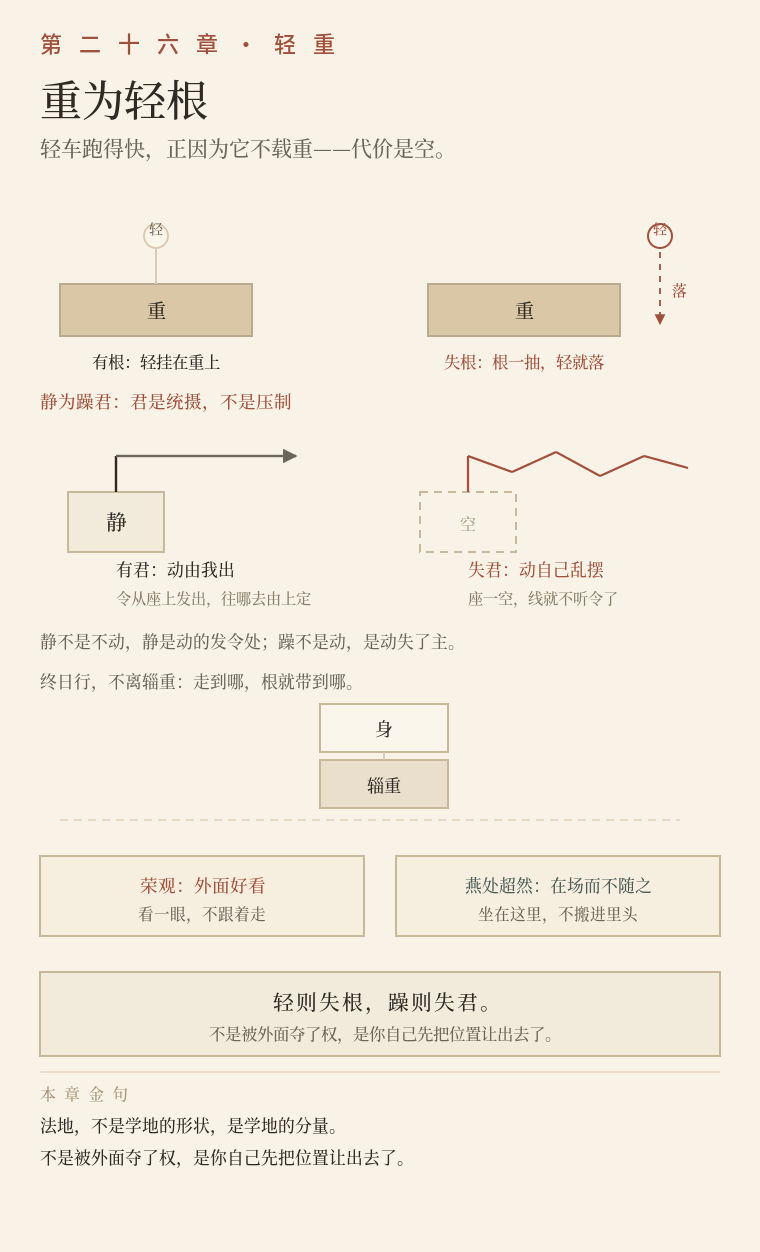
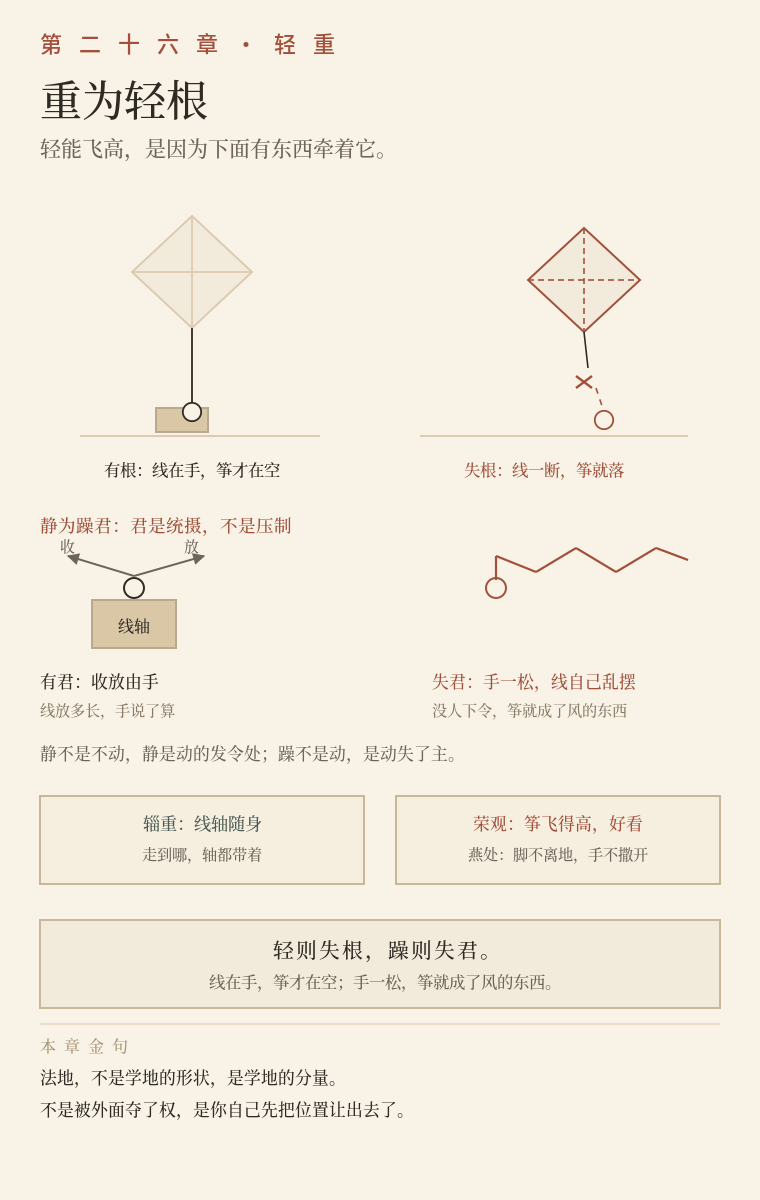
2.6.0 二十六章改用风筝模型：线在手，筝才在空；两处皆作一正一反两态

diff --git a/tools/make_yili_svg.py b/tools/make_yili_svg.py
@@ -1634,69 +1634,72 @@ def ch24_qi_zhe_bu_li():
 
 
 # ============ 第二十六章 · 重为轻根 ============
+# ============ 第二十六章 · 重为轻根 ============
 def ch26_zhong_wei_qing_gen():
-    W, H = 380, 626
-    body, y = head(W, H, "法地不是学地的形状，是学地的分量", "第 二 十 六 章 · 轻 重", "重为轻根",
-                   "轻车跑得快，正因为它不载重——代价是空。", H)
+    W, H = 380, 600
+    body, y = head(W, H, "线在手，筝才在空", "第 二 十 六 章 · 轻 重", "重为轻根",
+                   "轻能飞高，是因为下面有东西牵着它。", H)
     s = [body]
-    # 重为轻根：有根／失根 两态
-    y0 = y + 8
-    # 有根
-    s.append(box(30, y0 + 34, 96, 26, fill="#D9C7A6", stroke="#B9A98F"))
-    s.append(txt(78, y0 + 51, "重", 9.6, INK, "middle"))
-    s.append(f'<line x1="78" y1="{y0+34}" x2="78" y2="{y0+16}" stroke="{LINE}" stroke-width="1"/>')
-    s.append(f'<circle cx="78" cy="{y0+10}" r="6" fill="#FBF6EC" stroke="{LINE}" stroke-width="1"/>')
-    s.append(txt(78, y0 + 9, "轻", 7, "#6E6459", "middle"))
-    s.append(txt(78, y0 + 76, "有根：轻挂在重上", 8.2, INK, "middle"))
-    # 失根
-    s.append(box(214, y0 + 34, 96, 26, fill="#D9C7A6", stroke="#B9A98F"))
-    s.append(txt(262, y0 + 51, "重", 9.6, INK, "middle"))
-    s.append(f'<circle cx="330" cy="{y0+10}" r="6" fill="#FBF6EC" stroke="{SEAL}" stroke-width="1"/>')
-    s.append(txt(330, y0 + 9, "轻", 7, SEAL, "middle"))
-    s.append(arrow(330, y0 + 18, 330, y0 + 54, color="#A2503B", width=0.9, dash="3 3", head="arrS"))
-    s.append(txt(336, y0 + 40, "落", 7.4, SEAL))
-    s.append(txt(262, y0 + 76, "失根：根一抽，轻就落", 8.2, SEAL, "middle"))
-    # 静为躁君：君是主宰，不是压制——一正一反两态
-    y1 = y0 + 112
-    s.append(txt(20, y1 - 16, "静为躁君：君是统摄，不是压制", 8.8, SEAL))
-    # 一态：有君——动由我出
-    s.append(box(34, y1 + 26, 48, 30, fill="#F2EADA", stroke="#C9B79A"))
-    s.append(txt(58, y1 + 45, "静", 10.4, INK, "middle"))
-    s.append(f'<line x1="58" y1="{y1+26}" x2="58" y2="{y1+8}" stroke="{INK}" stroke-width="1.2"/>')
-    s.append(arrow(58, y1 + 8, 148, y1 + 8, color="#6E6459", width=1.2, head="arr"))
-    s.append(txt(58, y1 + 68, "有君：动由我出", 8.4, INK))
-    s.append(txt(58, y1 + 82, "令从座上发出，往哪去由上定", 7.6, "#8A7C69"))
-    # 一态：失君——座上无人，动自己乱摆
-    s.append(box(210, y1 + 26, 48, 30, dash="4 3", stroke="#C9B79A"))
-    s.append(txt(234, y1 + 45, "空", 8.0, "#B0A18B", "middle"))
-    zz = [(234, y1 + 26), (234, y1 + 8), (256, y1 + 16), (278, y1 + 6), (300, y1 + 18), (322, y1 + 8), (344, y1 + 14)]
+    # ---- 重为轻根：有根／失根 ----
+    y0 = y + 6
+    # 左：有根
+    s.append('<polygon points="96,%d 126,%d 96,%d 66,%d" fill="#F2EADA" stroke="%s" stroke-width="1"/>'
+             % (y0 + 2, y0 + 30, y0 + 58, y0 + 30, LINE))
+    s.append(f'<line x1="66" y1="{y0+30}" x2="126" y2="{y0+30}" stroke="{LINE}" stroke-width="0.9"/>')
+    s.append(f'<line x1="96" y1="{y0+2}" x2="96" y2="{y0+58}" stroke="{LINE}" stroke-width="0.9"/>')
+    s.append(f'<line x1="96" y1="{y0+58}" x2="96" y2="{y0+100}" stroke="{INK}" stroke-width="0.9"/>')
+    s.append(box(78, y0 + 98, 26, 12, fill="#D9C7A6", stroke="#B9A98F"))
+    s.append(f'<circle cx="96" cy="{y0+100}" r="4.6" fill="{PAPER}" stroke="{INK}" stroke-width="0.9"/>')
+    s.append(f'<line x1="40" y1="{y0+112}" x2="160" y2="{y0+112}" stroke="{LINE}" stroke-width="1"/>')
+    s.append(txt(96, y0 + 132, "有根：线在手，筝才在空", 8.2, INK, "middle"))
+    # 右：失根
+    s.append('<polygon points="292,%d 320,%d 292,%d 264,%d" fill="#F2EADA" stroke="%s" stroke-width="1"/>'
+             % (y0 + 8, y0 + 34, y0 + 60, y0 + 34, SEAL))
+    s.append(f'<line x1="264" y1="{y0+34}" x2="320" y2="{y0+34}" stroke="{SEAL}" stroke-width="0.8" stroke-dasharray="3 2"/>')
+    s.append(f'<line x1="292" y1="{y0+8}" x2="292" y2="{y0+60}" stroke="{SEAL}" stroke-width="0.8" stroke-dasharray="3 2"/>')
+    s.append(f'<line x1="292" y1="{y0+60}" x2="294" y2="{y0+78}" stroke="{INK}" stroke-width="0.8"/>')
+    s.append(f'<line x1="298" y1="{y0+88}" x2="302" y2="{y0+100}" stroke="{SEAL}" stroke-width="0.8" stroke-dasharray="3 3"/>')
+    s.append(f'<line x1="288" y1="{y0+82}" x2="296" y2="{y0+88}" stroke="{SEAL}" stroke-width="1.2"/>')
+    s.append(f'<line x1="296" y1="{y0+82}" x2="288" y2="{y0+88}" stroke="{SEAL}" stroke-width="1.2"/>')
+    s.append(f'<circle cx="302" cy="{y0+104}" r="4.6" fill="{PAPER}" stroke="{SEAL}" stroke-width="0.9"/>')
+    s.append(f'<line x1="210" y1="{y0+112}" x2="344" y2="{y0+112}" stroke="{LINE}" stroke-width="1"/>')
+    s.append(txt(272, y0 + 132, "失根：线一断，筝就落", 8.2, SEAL, "middle"))
+
+    # ---- 静为躁君：有君／失君 ----
+    y1 = y0 + 170
+    s.append(txt(20, y1 - 10, "静为躁君：君是统摄，不是压制", 8.8, SEAL))
+    # 有君：手在上，收放由手
+    s.append(box(46, y1 + 24, 42, 24, fill="#D9C7A6", stroke="#B9A98F"))
+    s.append(txt(67, y1 + 40, "线轴", 8.0, INK, "middle"))
+    s.append(f'<circle cx="67" cy="{y1+18}" r="5" fill="{PAPER}" stroke="{INK}" stroke-width="1"/>')
+    s.append(arrow(67, y1 + 12, 34, y1 + 2, color="#6E6459", width=1.0, head="arr"))
+    s.append(arrow(67, y1 + 12, 102, y1 + 2, color="#6E6459", width=1.0, head="arr"))
+    s.append(txt(30, y1 + 0, "收", 7.4, "#6E6459"))
+    s.append(txt(92, y1 + 0, "放", 7.4, "#6E6459"))
+    s.append(txt(20, y1 + 68, "有君：收放由手", 8.4, INK))
+    s.append(txt(20, y1 + 82, "线放多长，手说了算", 7.6, "#8A7C69"))
+    # 失君：手松开，线自己乱摆
+    s.append(f'<circle cx="248" cy="{y1+18}" r="5" fill="{PAPER}" stroke="{SEAL}" stroke-width="1"/>')
+    zz = [(248, y1 + 14), (248, y1 + 2), (268, y1 + 10), (288, y1 - 2), (308, y1 + 10), (328, y1 - 2), (344, y1 + 4)]
     for i in range(len(zz) - 1):
         s.append(f'<line x1="{zz[i][0]}" y1="{zz[i][1]}" x2="{zz[i+1][0]}" y2="{zz[i+1][1]}" stroke="{SEAL}" stroke-width="1.1"/>')
-    s.append(txt(234, y1 + 68, "失君：动自己乱摆", 8.4, SEAL))
-    s.append(txt(234, y1 + 82, "座一空，线就不听令了", 7.6, "#8A7C69"))
+    s.append(txt(216, y1 + 68, "失君：手一松，线自己乱摆", 8.4, SEAL))
+    s.append(txt(216, y1 + 82, "没人下令，筝就成了风的东西", 7.6, "#8A7C69"))
     s.append(txt(20, y1 + 104, "静不是不动，静是动的发令处；躁不是动，是动失了主。", 8.4, "#6E6459"))
-    # 终日行不离辎重
-    y2 = y1 + 120
-    s.append(txt(20, y2 + 4, "终日行，不离辎重：走到哪，根就带到哪。", 8.4, "#6E6459"))
-    s.append(box(160, y2 + 12, 64, 24, fill="#FBF6EC", stroke="#C9B79A"))
-    s.append(txt(192, y2 + 28, "身", 9, INK, "middle"))
-    s.append(box(160, y2 + 40, 64, 24, fill="#E9DFCC", stroke="#C9B79A"))
-    s.append(txt(192, y2 + 56, "辎重", 8.6, INK, "middle"))
-    s.append(f'<line x1="192" y1="{y2+36}" x2="192" y2="{y2+40}" stroke="{LINE}" stroke-width="1"/>')
-    s.append(f'<line x1="30" y1="{y2+70}" x2="340" y2="{y2+70}" stroke="{LINE2}" stroke-width="1" stroke-dasharray="4 3"/>')
-    # 荣观 / 燕处
-    y3 = y2 + 88
-    s.append(box(20, y3, 162, 40, fill="#F6EFE0", stroke="#C9B79A"))
-    s.append(txt(101, y3 + 18, "荣观：外面好看", 8.8, SEAL, "middle"))
-    s.append(txt(101, y3 + 32, "看一眼，不跟着走", 7.8, "#6E6459", "middle"))
-    s.append(box(198, y3, 162, 40, fill="#F6EFE0", stroke="#C9B79A"))
-    s.append(txt(279, y3 + 18, "燕处超然：在场而不随之", 8.4, GREEN, "middle"))
-    s.append(txt(279, y3 + 32, "坐在这里，不搬进里头", 7.8, "#6E6459", "middle"))
-    yc = y3 + 58
-    s.append(box(20, yc, 340, 42, fill="#F2EADA", stroke="#C9B79A"))
+    # ---- 辎重 / 荣观·燕处 ----
+    y2 = y1 + 122
+    s.append(box(20, y2, 162, 44, fill="#F6EFE0", stroke="#C9B79A"))
+    s.append(txt(101, y2 + 17, "辎重：线轴随身", 8.6, GREEN, "middle"))
+    s.append(txt(101, y2 + 32, "走到哪，轴都带着", 7.6, "#6E6459", "middle"))
+    s.append(box(198, y2, 162, 44, fill="#F6EFE0", stroke="#C9B79A"))
+    s.append(txt(279, y2 + 17, "荣观：筝飞得高，好看", 8.4, SEAL, "middle"))
+    s.append(txt(279, y2 + 32, "燕处：脚不离地，手不撒开", 7.6, "#6E6459", "middle"))
+    # ---- 收 ----
+    yc = y2 + 62
+    s.append(box(20, yc, 340, 44, fill="#F2EADA", stroke="#C9B79A"))
     s.append(txt(190, yc + 19, "轻则失根，躁则失君。", 10.4, INK, "middle", spacing="1"))
-    s.append(txt(190, yc + 34, "不是被外面夺了权，是你自己先把位置让出去了。", 8.2, "#6E6459", "middle"))
-    s.append(gold(yc + 50, "ch26"))
+    s.append(txt(190, yc + 34, "线在手，筝才在空；手一松，筝就成了风的东西。", 8.2, "#6E6459", "middle"))
+    s.append(gold(yc + 52, "ch26"))
     s.append('</svg>')
     return "\n".join(s)
 

diff --git a/book/义理图-体例.md b/book/义理图-体例.md
@@ -71,7 +71,7 @@
 | 二十一 | ch21-kong-de | 由粗到细 | 象→物→精→信四级，包在「惚兮恍兮」虚线框内，收「以阅众甫」 |
 | 十一 | ch11-li-yong | 利与用 | 三容器并置，各标「有·立界／无·让位」，收「有之以为利，无之以为用」 |
 | 二十五 | ch25-dao-fa | 道法自然 | 名（道大逝远反）→ 虚圈「？」；四大竖列；四法横带；逝远反圆环，收「上面没有更高的东西」 |
-| 二十六 | ch26-zhong-wei-qing-gen | 重为轻根 | 重块托轻物；静→躁折线（静是发令处）；身与辎重随行；荣观／燕处两格 |
+| 二十六 | ch26-zhong-wei-qing-gen | 重为轻根 | 风筝：线在手，筝才在空；失根则线断筝落；静为躁君作「收放由手／手松线乱」两态；辎重即线轴，荣观燕处即脚不离地 |
 | 二十七 | ch27-shan-xing-wu-zhe-ji | 善行无辙迹 | 五「善」各对一「不用」；无弃人／无弃物两格；师／资两格，收「迷在太会分」 |
 | 二十三 | ch23-xi-yan-zi-ran | 希言自然 | 风雨一框证「不久」，下三同（道／德／失），末以空「言」框点「话后面没有人」 |
 | 二十四 | ch24-qi-zhe-bu-li | 企者不立 | 左企（脚尖点地、高度虚尺）／右跨（步幅虚线）；四句「自…→不…」两列；末余食赘行两格 |
